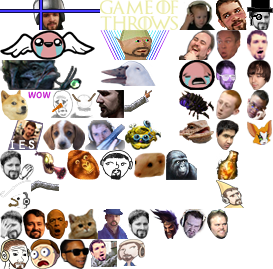
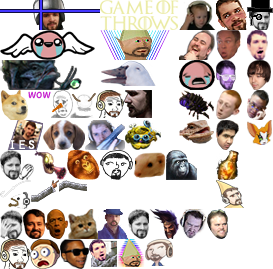
add the other twitch emotes too because clearly people want multiple emotes that are exactly the same

Changed region(s): [[0.4103, 0.8625, 0.6447, 1.0], [0.3516, 0.3271, 0.5568, 0.4461], [0.0879, 0.6543, 0.3223, 0.7732]]

diff --git a/static/chat/css/style.min.css b/static/chat/css/style.min.css
@@ -1,1 +1,1 @@
-.nano{position:relative;width:100%;height:100%;overflow:hidden}.nano>.nano-content{position:absolute;overflow:scroll;overflow-x:hidden;top:0;right:0;bottom:0;left:0}.nano>.nano-content:focus{outline:thin dotted}.nano>.nano-content::-webkit-scrollbar{display:none}.has-scrollbar>.nano-content::-webkit-scrollbar{display:block}.nano>.nano-pane{background:rgba(0,0,0,0.25);position:absolute;width:10px;right:0;top:0;bottom:0;visibility:hidden\9;opacity:.01;-webkit-transition:.2s;-moz-transition:.2s;-o-transition:.2s;transition:.2s;-moz-border-radius:5px;-webkit-border-radius:5px;border-radius:5px}.nano>.nano-pane>.nano-slider{background:#444;background:rgba(0,0,0,0.5);position:relative;margin:0 1px;-moz-border-radius:3px;-webkit-border-radius:3px;border-radius:3px}.nano:hover>.nano-pane,.nano-pane.active,.nano-pane.flashed{visibility:visible\9;opacity:.99}.nano>.nano-pane>.nano-slider{background:#eee}.nano>.nano-pane{background:transparent;width:8px;right:4px}.serif{font-family:"Trebuchet MS",sans-serif}.chat{position:relative;width:100%;height:100%;min-width:300px}.chat-output-frame{margin-bottom:35px;height:auto;width:100%;position:absolute;overflow:hidden;top:0;bottom:0;left:0;right:0}.chat-output{width:100%;height:100%}.chat-output .chat-lines{-webkit-backface-visibility:hidden;-webkit-perspective:1000;outline:0 !important}.chat-lines>div{clear:both;word-wrap:break-word;padding:3px 20px 3px 5px}.chat-lines>div .continue{user-select:none;color:#444}.chat-lines>div i.continue{user-select:none;color:#222}.chat-lines a.user{font-weight:bold;cursor:pointer;font-family:"Trebuchet MS",sans-serif}.chat-lines hr{margin:8px 0}.chat-lines .msg.emote{font-style:italic}.chat-input{width:100%;position:absolute;bottom:0}#chat-top-frame{position:absolute;top:0;left:0;right:0}#chat-bottom-frame{position:absolute;bottom:35px;left:0;right:0}.chat-input>div{margin:5px 0 0 0;background:#2e2e2e}.chat-tools-wrap{position:absolute;right:0;bottom:0;margin:0;user-select:none;-moz-user-select:none;-webkit-user-select:none}.chat-input-wrap{margin:0;margin-right:60px}#user-mute-form,#user-ban-form{margin-top:10px;display:none}#user-mute-form #banTimeLength{width:150px}.chat-input-control{padding:3px 0 0 5px;height:28px;margin:1px;border-radius:3px}.chat-input-control .input{background:none;resize:none;margin:0;padding:0;width:100%;border:0;border-radius:0;box-shadow:none;box-sizing:border-box}.chat-input-control .input:focus{box-shadow:none}.chat-tools-wrap>div{height:30px;overflow:hidden}.chat-tools-wrap .iconbtn{font-size:20px;cursor:pointer;width:30px;height:28px;line-height:28px;float:left;display:block;text-align:center;color:#555;position:relative}.chat-tools-wrap .iconbtn:hover{color:white}.chat-tools-wrap .iconbtn.active{color:white}.chat-tools-wrap .chat-pm-count{font-family:"Lucida Console",Monaco,monospace;text-decoration:none;font-size:10px;color:white;background-color:#b91010;line-height:10px;padding:3px;position:absolute;border-radius:8px;top:-5px;left:0;display:block;text-shadow:1px 1px 0 black;text-align:center;box-shadow:1px 1px 0 rgba(0,0,0,0.1);min-width:15px}@-webkit-keyframes flash{0%,50%,100%{opacity:1}25%,75%{opacity:0}}@keyframes flash{0%,50%,100%{opacity:1}25%,75%{opacity:0}}.chat-pm-count.flash{-webkit-animation-name:flash;-webkit-animation-duration:1.5s;-webkit-animation-direction:alternate;-webkit-animation-timing-function:linear;-webkit-animation-delay:0s;-webkit-animation-iteration-count:infinite;-moz-animation-name:flash;-moz-animation-duration:1.5s;-moz-animation-direction:alternate;-moz-animation-timing-function:linear;-moz-animation-delay:0s;-moz-animation-iteration-count:infinite;animation-name:flash;animation-duration:1.5s;animation-iteration-count:infinite}.chat .chat-lines i[class^="icon-"]{width:16px;line-height:16px;height:16px;margin:0;opacity:1;display:inline-block;vertical-align:middle}.chat-input-control input,.chat-lines{font-family:Helvetica,"Trebuchet MS",Verdana,sans-serif;font-size:13px;line-height:1.5em}.chat-lines time{font-size:11px}.chat-lines a.externallink{color:#02c2ff}.chat-lines a.externallink:visited{color:#a66be5}.chat-lines a.externallink:hover,.chat-lines a.externallink:focus{color:#08c}.chat-lines a.nsfw-link{border-bottom:1px dashed red}.chat-lines a.nsfl-link{border-bottom:1px dashed #fff000}.chat .chat-lines time,.chat .user-msg i{display:none !important}.chat.chat-time .chat-lines time,.chat.chat-icons .user-msg i,.chat-lines i[class*='icon-subscriber']{display:inline-block !important}.chat-theme-dark{background:#080808;border-radius:0}.chat-theme-dark .chat-input-wrap{border:none}.chat-theme-dark .chat-lines time{color:#414141}.chat-theme-dark .chat-lines>div.highlight time,.chat-lines>div.highlight .continue{color:#838383}.chat-theme-dark .chat-lines>.command-msg,.chat-theme-dark .chat-lines>.error-msg,.chat-theme-dark .chat-lines>.status-msg,.chat-theme-dark .chat-lines>.ui-msg,.chat-theme-dark .chat-lines>.own-msg,.chat-theme-dark .chat-lines>.highlight{color:#dedede}.chat-theme-dark .chat-lines>.broadcast-msg .msg{color:#edea12}.chat-theme-dark .chat-lines>.broadcast-msg{background:rgba(255,255,21,0.1)}.chat-theme-dark .chat-lines>.own-msg{background-color:rgba(255,255,255,0.05)}.chat-theme-dark .chat-lines>.highlight{background-color:rgba(0,150,255,0.25)}.chat-theme-dark .chat-lines>.command-msg,.chat-theme-dark .chat-lines>.own-msg,.chat-theme-dark .chat-lines>.highlight .msg,.chat-theme-dark .chat-lines>.broadcast-msg .msg{text-shadow:1px 1px 0 rgba(0,0,0,0.5)}.chat-theme-dark .chat-input-control{background:#090909;border:none}.chat-theme-dark .chat-input-control input{color:#9e9e9e;background:#090909;text-shadow:none;outline:none}.chat-theme-dark .chat-lines>.private-message{background-color:#212121;margin:5px 15px 5px 10px;padding:10px;position:relative;border-radius:3px}.chat-theme-dark .chat-lines>.private-message .speech-arrow{top:15px;left:-5px;position:absolute;width:0;height:0;border-style:solid;border-width:5px 5px 5px 0;border-color:transparent #212121 transparent transparent}.chat-theme-dark .chat-lines>.private-message .message-actions{font-size:90%}.chat-theme-dark input:input-placeholder{color:#222}.chat-theme-dark input::-webkit-input-placeholder{color:#222}.chat-theme-dark input:-moz-placeholder{color:#222}.chat-theme-dark input::-moz-placeholder{color:#222}.chat-theme-dark input:-ms-input-placeholder{color:#222}.chat-theme-dark .nano>.pane{background:rgba(0,0,0,0.3);width:8px;right:5px;top:5px;bottom:0}.chat-theme-dark .nano>.pane>.slider{background:#999}.chat-theme-dark .nano>.pane>.slider:hover,.chat-theme-dark .nano>.pane.active>.slider{background:#eee}.chat.focus-user .chat-lines>.user-msg{opacity:.3}.chat.focus-user .chat-lines>.user-msg.focused,.chat.focus-user .chat-lines>.user-msg.highlight{opacity:1}.chat .alert{margin-bottom:0;padding-top:4px;padding-bottom:4px;font-size:12px}.hint-popup,.user-tools{width:100%;top:-5px;left:0}.hint-popup>div,.user-tools>div,#chat-broadcasts>div{border-radius:4px;margin:5px 20px 5px 5px}.user-tools .user-tools-user{font-family:"Trebuchet MS",sans-serif}#chat-broadcasts .chat-emote{display:none}.hint-popup>div{box-shadow:0 2px 6px rgba(0,0,0,0.9);padding:0}.hint-popup a:hover{cursor:pointer;color:#6aa7f9}.hint-popup .hidehint,.hint-popup .nexthint{top:0;position:relative;float:right;right:-23px;line-height:20px;-webkit-touch-callout:none;-webkit-user-select:none;-khtml-user-select:none;-moz-user-select:none;-ms-user-select:none;user-select:none;color:#ccc}.hint-popup .hidehint{right:-27px}.hint-popup .hidehint:hover,.hint-popup .nexthint:hover{color:#111}.hint-popup .alert{padding-right:35px}.user-tools-wrap{margin-left:-5px}.user-tools-wrap>a{margin:0 5px}.chat-menu,.user-tools,.hint-popup{display:none;opacity:0}.chat-menu.active,.user-tools.active,.hint-popup.active{display:block;opacity:1}.chat-menu,.user-tools,.hint-popup{font-size:12px}.chat-menu{position:absolute;right:20px;bottom:-5px;width:240px}.chat-menu.active{bottom:0}.chat-menu h5,.user-tools h5{text-shadow:-1px -1px 0 rgba(0,0,0,0.25);user-select:none;-moz-user-select:none;-webkit-user-select:none;background:#4f4f4f;background:linear-gradient(to bottom, #4f4f4f 0, #2e2e2e 100%);border-bottom:1px solid #121212;margin:0;line-height:20px;display:block;padding:5px 15px 5px 10px;border-radius:4px 4px 0 0}.chat-menu .toolbar{width:100%;position:absolute;top:-31px;left:0}.chat-menu li,.chat-menu label{font-size:12px}.chat-menu label{font-weight:normal;margin:0 0 5px 0}.chat-menu label:hover{color:white}.chat-menu .list-wrap,.chat-menu .list-wrap .scrollable{max-height:330px;font-size:.9em}.chat-menu .list-wrap,.user-tools>div{box-shadow:0 2px 6px rgba(0,0,0,0.9);border-radius:0 0 4px 4px;background:rgba(25,25,25,0.9);padding:0}.chat-menu .list-wrap{margin-top:auto}.chat-menu ul,.user-tools .tools{padding:0 10px;margin:10px 0}.chat-menu ul>li:first-child h5{margin-top:0}.chat-menu ul li{text-overflow:ellipsis;overflow:hidden}#chat-user-list ul li{line-height:18px}#chat-user-list h6:first-child{margin-top:10px}#chat-user-list h6{font-weight:bold;margin:0 0 5px 5px}#chat-user-list hr{margin:5px 0}#chat-user-list ul{margin:0}#chat-user-list .user{cursor:pointer;font-family:"Trebuchet MS",sans-serif}.user-tools a#unignoreuser,.user-tools.user-ignored a#ignoreuser{display:none}.user-tools.user-ignored a#unignoreuser{display:inline-block}.chat-menu .nano>.pane{width:8px;right:3px;top:3px;bottom:3px}#chat-private-messages{width:270px}#chat-private-messages #chat-pm-message{padding:15px}#chat-private-messages #chat-pm-message p{font-size:14px;text-align:center}.chat-login-msg{display:inline-block;width:100%;padding:0 0 0 5px;line-height:30px;color:rgba(255,255,255,0.5);text-shadow:-1px -1px 0 rgba(0,0,0,0.25)}.chat-lines .emotecount{color:white;text-shadow:1px 1px 0 rgba(0,0,0,0.9);font-size:10px;line-height:10px;border-radius:10px;padding:3px 6px;margin:0 0 0 5px;background:#191919}.chat-lines .emotecount{text-shadow:none;animation:emotecount 600ms 1;-moz-animation:emotecount 600ms 1;-webkit-animation:emotecount 600ms 1}@keyframes emotecount{from{color:black;background-color:white}to{color:white;background-color:#333}}@-webkit-keyframes emotecount{from{color:black;background-color:white}to{color:white;background-color:#333}}.chat-lines .emotecount.x5>span{font-size:12px}.chat-lines .emotecount.x10>span{font-size:16px}.chat-lines .emotecount.x20>span{font-size:25px;vertical-align:middle}.chat-lines .emotecount.x30>span{font-size:35px;vertical-align:middle}.chat-lines .emotecount.x50>span{font-size:40px;vertical-align:middle}.chat a.user{color:#cacaca}.chat a.user:hover{color:#fafafa}.chat a.subscriber{color:#488ce7}.chat a.subscriber:hover{color:#6aa7f9}.chat a.flair3{color:#0060ff;text-shadow:1px 1px 0 black}.chat a.flair3:hover{color:#6aa7f9}.chat a.flair8{color:#a427d6;text-shadow:1px 1px 0 black}.chat a.flair8:hover{color:#e564f4}.chat a.vip{color:#4db524}.chat a.vip:hover{color:#4db524}.chat a.bot{color:#e79015}.chat a.bot:hover{color:#e79015}.chat a.admin{color:#b91010}.chat a.admin:hover{color:#f00}.chat .greentext{color:#6ca528}@keyframes hop{0%{transform:translateY(0)}5%{transform:translateY(2px)}10%{transform:translateY(-13px)}50%{transform:translateY(-15px)}70%{transform:translateY(-13px)}80%{transform:translateY(-5px)}95%{transform:translateY(0)}100%{transform:translateY(0)}}.hop{animation:hop 700ms linear 5}.chat-emote{display:inline-block;position:relative;top:10px;margin:0 2px;overflow:hidden;text-indent:-90000px;vertical-align:middle}.chat-emote.chat-emote-OverRustle{animation:rustle 100ms 7;-webkit-animation:rustle 100ms 7}.chat-emote.chat-emote-OverRustle:hover{animation:rustle1 100ms infinite;-webkit-animation:rustle1 100ms infinite}@keyframes rustle{from{left:0}to{left:2px}}@-webkit-keyframes rustle{from{left:0}to{left:2px}}@keyframes rustle1{from{left:0}to{left:2px}}@-webkit-keyframes rustle1{from{left:0}to{left:2px}}.chat-emote.chat-emote-AYYYLMAO,.chat-emote.chat-emote-AngelThump,.chat-emote.chat-emote-Abathur,.chat-emote.chat-emote-GameOfThrows,.chat-emote.chat-emote-DANKMEMES,.chat-emote.chat-emote-DuckerZ,.chat-emote.chat-emote-SoDoge,.chat-emote.chat-emote-SoSad,.chat-emote.chat-emote-LIES,.chat-emote.chat-emote-FrankerZ,.chat-emote.chat-emote-SOTRIGGERED,.chat-emote.chat-emote-Heimerdonger,.chat-emote.chat-emote-FeedNathan,.chat-emote.chat-emote-LUL,.chat-emote.chat-emote-BibleThump,.chat-emote.chat-emote-INFESTINY,.chat-emote.chat-emote-Hhhehhehe,.chat-emote.chat-emote-Klappa,.chat-emote.chat-emote-SURPRISE,.chat-emote.chat-emote-OverRustle,.chat-emote.chat-emote-LeRuse,.chat-emote.chat-emote-FerretLOL,.chat-emote.chat-emote-NoTears,.chat-emote.chat-emote-MASTERB8,.chat-emote.chat-emote-DestiSenpaii,.chat-emote.chat-emote-WhoahDude,.chat-emote.chat-emote-WORTH,.chat-emote.chat-emote-UWOTM8,.chat-emote.chat-emote-TooSpicy,.chat-emote.chat-emote-Sippy,.chat-emote.chat-emote-OhKrappa,.chat-emote.chat-emote-Nappa,.chat-emote.chat-emote-NOTMYTEMPO,.chat-emote.chat-emote-MotherFuckinGame,.chat-emote.chat-emote-MLADY,.chat-emote.chat-emote-Kappa,.chat-emote.chat-emote-Dravewin,.chat-emote.chat-emote-Disgustiny,.chat-emote.chat-emote-DatGeoff,.chat-emote.chat-emote-DappaKappa,.chat-emote.chat-emote-DaFeels,.chat-emote.chat-emote-DURRSTINY,.chat-emote.chat-emote-DAFUK,.chat-emote.chat-emote-CallChad,.chat-emote.chat-emote-CallCatz,.chat-emote.chat-emote-BasedGod,.chat-emote.chat-emote-nathanParty,.chat-emote.chat-emote-nathanFather,.chat-emote.chat-emote-nathanDubs3,.chat-emote.chat-emote-nathanDubs2,.chat-emote.chat-emote-nathanDubs1,.chat-emote.chat-emote-nathanDad,.chat-emote.chat-emote-FIDGETLOL{background-image:url('../img/emoticons.png');background-repeat:no-repeat}.chat-emote.chat-emote-AYYYLMAO{background-position:0 0;width:100px;height:30px;margin-top:-30px}.chat-emote.chat-emote-AngelThump{background-position:0 -30px;width:95px;height:30px;margin-top:-30px}.chat-emote.chat-emote-Abathur{background-position:0 -60px;width:82px;height:30px;margin-top:-30px}.chat-emote.chat-emote-GameOfThrows{background-position:-100px 0;width:79px;height:30px;margin-top:-30px}.chat-emote.chat-emote-DANKMEMES{background-position:-100px -30px;width:70px;height:30px;margin-top:-30px}.chat-emote.chat-emote-DuckerZ{background-position:-100px -60px;width:56px;height:26px;margin-top:-26px}.chat-emote.chat-emote-SoDoge{background-position:0 -90px;width:51px;height:30px;margin-top:-30px}.chat-emote.chat-emote-SoSad{background-position:-51px -90px;width:45px;height:28px;margin-top:-28px}.chat-emote.chat-emote-LIES{background-position:0 -120px;width:43px;height:30px;margin-top:-30px}.chat-emote.chat-emote-FrankerZ{background-position:-43px -120px;width:42px;height:30px;margin-top:-30px}.chat-emote.chat-emote-SOTRIGGERED{background-position:-85px -120px;width:40px;height:30px;margin-top:-30px}.chat-emote.chat-emote-Heimerdonger{background-position:-125px -120px;width:37px;height:30px;margin-top:-30px}.chat-emote.chat-emote-FeedNathan{background-position:-179px 0;width:37px;height:30px;margin-top:-30px}.chat-emote.chat-emote-LUL{background-position:-179px -30px;width:36px;height:30px;margin-top:-30px}.chat-emote.chat-emote-BibleThump{background-position:-179px -60px;width:36px;height:30px;margin-top:-30px}.chat-emote.chat-emote-INFESTINY{background-position:-179px -90px;width:35px;height:30px;margin-top:-30px}.chat-emote.chat-emote-Hhhehhehe{background-position:-179px -120px;width:35px;height:24px;margin-top:-24px}.chat-emote.chat-emote-Klappa{background-position:0 -150px;width:34px;height:30px;margin-top:-30px}.chat-emote.chat-emote-SURPRISE{background-position:-34px -150px;width:33px;height:30px;margin-top:-30px}.chat-emote.chat-emote-OverRustle{background-position:-67px -150px;width:33px;height:30px;margin-top:-30px}.chat-emote.chat-emote-LeRuse{background-position:-100px -150px;width:33px;height:30px;margin-top:-30px}.chat-emote.chat-emote-FerretLOL{background-position:-133px -150px;width:33px;height:30px;margin-top:-30px}.chat-emote.chat-emote-NoTears{background-position:-166px -150px;width:31px;height:30px;margin-top:-30px}.chat-emote.chat-emote-MASTERB8{background-position:0 -180px;width:31px;height:29px;margin-top:-29px}.chat-emote.chat-emote-DestiSenpaii{background-position:-216px 0;width:31px;height:30px;margin-top:-30px}.chat-emote.chat-emote-WhoahDude{background-position:-216px -30px;width:25px;height:30px;margin-top:-30px}.chat-emote.chat-emote-WORTH{background-position:-216px -60px;width:20px;height:30px;margin-top:-30px}.chat-emote.chat-emote-UWOTM8{background-position:-216px -90px;width:26px;height:30px;margin-top:-30px}.chat-emote.chat-emote-TooSpicy{background-position:-216px -120px;width:23px;height:30px;margin-top:-30px}.chat-emote.chat-emote-Sippy{background-position:-216px -150px;width:24px;height:30px;margin-top:-30px}.chat-emote.chat-emote-OhKrappa{background-position:0 -209px;width:23px;height:30px;margin-top:-30px}.chat-emote.chat-emote-Nappa{background-position:-23px -209px;width:22px;height:30px;margin-top:-30px}.chat-emote.chat-emote-NOTMYTEMPO{background-position:-45px -209px;width:23px;height:30px;margin-top:-30px}.chat-emote.chat-emote-MotherFuckinGame{background-position:-68px -209px;width:30px;height:30px;margin-top:-30px}.chat-emote.chat-emote-MLADY{background-position:-98px -209px;width:30px;height:30px;margin-top:-30px}.chat-emote.chat-emote-Kappa{background-position:-128px -209px;width:21px;height:30px;margin-top:-30px}.chat-emote.chat-emote-Dravewin{background-position:-149px -209px;width:30px;height:30px;margin-top:-30px}.chat-emote.chat-emote-Disgustiny{background-position:-179px -209px;width:28px;height:30px;margin-top:-30px}.chat-emote.chat-emote-DatGeoff{background-position:-207px -209px;width:21px;height:30px;margin-top:-30px}.chat-emote.chat-emote-DappaKappa{background-position:-247px 0;width:26px;height:30px;margin-top:-30px}.chat-emote.chat-emote-DaFeels{background-position:0 -239px;width:30px;height:30px;margin-top:-30px}.chat-emote.chat-emote-DURRSTINY{background-position:-247px -30px;width:21px;height:30px;margin-top:-30px}.chat-emote.chat-emote-DAFUK{background-position:-30px -239px;width:30px;height:30px;margin-top:-30px}.chat-emote.chat-emote-CallChad{background-position:-247px -60px;width:24px;height:30px;margin-top:-30px}.chat-emote.chat-emote-CallCatz{background-position:-247px -90px;width:22px;height:30px;margin-top:-30px}.chat-emote.chat-emote-BasedGod{background-position:-60px -239px;width:29px;height:30px;margin-top:-30px}.chat-emote.chat-emote-nathanParty{background-position:-216px -180px;width:28px;height:28px;margin-top:-28px}.chat-emote.chat-emote-nathanFather{background-position:-96px -90px;width:28px;height:28px;margin-top:-28px}.chat-emote.chat-emote-nathanDubs3{background-position:-124px -90px;width:28px;height:22px;margin-top:-22px}.chat-emote.chat-emote-nathanDubs2{background-position:-31px -180px;width:28px;height:12px;margin-top:-12px}.chat-emote.chat-emote-nathanDubs1{background-position:-89px -239px;width:28px;height:28px;margin-top:-28px}.chat-emote.chat-emote-nathanDad{background-position:-117px -239px;width:28px;height:27px;margin-top:-27px}.chat-emote.chat-emote-FIDGETLOL{background-position:-247px -120px;width:25px;height:25px;margin-top:-25px}.icon-subscriber,.icon-subscribert2,.icon-subscribert3,.icon-subscribert4{-webkit-transform:rotate(0deg);-webkit-transition:rotate .2s ease-in-out;-moz-transition:rotate .2s ease-in-out;-o-transition:rotate .2s ease-in-out;transition:rotate .2s ease-in-out}.icon-subscriber:hover,.icon-subscribert2:hover,.icon-subscribert3:hover,.icon-subscribert4:hover{-moz-animation:spin 3s infinite linear;-webkit-animation:spin 3s infinite linear}.icon-vip:hover,.icon-vip,.icon-trusted,.icon-subscribert4,.icon-subscribert3,.icon-subscribert2,.icon-subscriber,.icon-status,.icon-notable,.icon-moderator,.icon-mail,.icon-mail-send,.icon-mail-receive,.icon-mail-open-document,.icon-info,.icon-evenotable,.icon-error,.icon-contributor,.icon-compchallenge:hover,.icon-compchallenge,.icon-command,.icon-bot:hover,.icon-bot,.icon-admin:hover,.icon-admin{background-image:url('../img/icons.png');background-repeat:no-repeat}.icon-vip:hover{background-position:0 0;width:16px;height:16px}.icon-vip{background-position:-16px 0;width:16px;height:16px}.icon-trusted{background-position:0 -16px;width:16px;height:16px}.icon-subscribert4{background-position:-16px -16px;width:16px;height:16px}.icon-subscribert3{background-position:-32px 0;width:16px;height:16px}.icon-subscribert2{background-position:-32px -16px;width:16px;height:16px}.icon-subscriber{background-position:0 -32px;width:16px;height:16px}.icon-status{background-position:-16px -32px;width:16px;height:16px}.icon-notable{background-position:-32px -32px;width:16px;height:16px}.icon-moderator{background-position:-48px 0;width:16px;height:16px}.icon-mail{background-position:-48px -16px;width:16px;height:16px}.icon-mail-send{background-position:-48px -32px;width:16px;height:16px}.icon-mail-receive{background-position:0 -48px;width:16px;height:16px}.icon-mail-open-document{background-position:-16px -48px;width:16px;height:16px}.icon-info{background-position:-32px -48px;width:16px;height:16px}.icon-evenotable{background-position:-48px -48px;width:16px;height:16px}.icon-error{background-position:-64px 0;width:16px;height:16px}.icon-contributor{background-position:-64px -16px;width:16px;height:16px}.icon-compchallenge:hover{background-position:-64px -32px;width:16px;height:16px}.icon-compchallenge{background-position:-64px -48px;width:16px;height:16px}.icon-command{background-position:0 -64px;width:16px;height:16px}.icon-bot:hover{background-position:-16px -64px;width:16px;height:16px}.icon-bot{background-position:-32px -64px;width:16px;height:16px}.icon-admin:hover{background-position:-48px -64px;width:16px;height:16px}.icon-admin{background-position:-64px -64px;width:16px;height:16px}
+.nano{position:relative;width:100%;height:100%;overflow:hidden}.nano>.nano-content{position:absolute;overflow:scroll;overflow-x:hidden;top:0;right:0;bottom:0;left:0}.nano>.nano-content:focus{outline:thin dotted}.nano>.nano-content::-webkit-scrollbar{display:none}.has-scrollbar>.nano-content::-webkit-scrollbar{display:block}.nano>.nano-pane{background:rgba(0,0,0,0.25);position:absolute;width:10px;right:0;top:0;bottom:0;visibility:hidden\9;opacity:.01;-webkit-transition:.2s;-moz-transition:.2s;-o-transition:.2s;transition:.2s;-moz-border-radius:5px;-webkit-border-radius:5px;border-radius:5px}.nano>.nano-pane>.nano-slider{background:#444;background:rgba(0,0,0,0.5);position:relative;margin:0 1px;-moz-border-radius:3px;-webkit-border-radius:3px;border-radius:3px}.nano:hover>.nano-pane,.nano-pane.active,.nano-pane.flashed{visibility:visible\9;opacity:.99}.nano>.nano-pane>.nano-slider{background:#eee}.nano>.nano-pane{background:transparent;width:8px;right:4px}.serif{font-family:"Trebuchet MS",sans-serif}.chat{position:relative;width:100%;height:100%;min-width:300px}.chat-output-frame{margin-bottom:35px;height:auto;width:100%;position:absolute;overflow:hidden;top:0;bottom:0;left:0;right:0}.chat-output{width:100%;height:100%}.chat-output .chat-lines{-webkit-backface-visibility:hidden;-webkit-perspective:1000;outline:0 !important}.chat-lines>div{clear:both;word-wrap:break-word;padding:3px 20px 3px 5px}.chat-lines>div .continue{user-select:none;color:#444}.chat-lines>div i.continue{user-select:none;color:#222}.chat-lines a.user{font-weight:bold;cursor:pointer;font-family:"Trebuchet MS",sans-serif}.chat-lines hr{margin:8px 0}.chat-lines .msg.emote{font-style:italic}.chat-input{width:100%;position:absolute;bottom:0}#chat-top-frame{position:absolute;top:0;left:0;right:0}#chat-bottom-frame{position:absolute;bottom:35px;left:0;right:0}.chat-input>div{margin:5px 0 0 0;background:#2e2e2e}.chat-tools-wrap{position:absolute;right:0;bottom:0;margin:0;user-select:none;-moz-user-select:none;-webkit-user-select:none}.chat-input-wrap{margin:0;margin-right:60px}#user-mute-form,#user-ban-form{margin-top:10px;display:none}#user-mute-form #banTimeLength{width:150px}.chat-input-control{padding:3px 0 0 5px;height:28px;margin:1px;border-radius:3px}.chat-input-control .input{background:none;resize:none;margin:0;padding:0;width:100%;border:0;border-radius:0;box-shadow:none;box-sizing:border-box}.chat-input-control .input:focus{box-shadow:none}.chat-tools-wrap>div{height:30px;overflow:hidden}.chat-tools-wrap .iconbtn{font-size:20px;cursor:pointer;width:30px;height:28px;line-height:28px;float:left;display:block;text-align:center;color:#555;position:relative}.chat-tools-wrap .iconbtn:hover{color:white}.chat-tools-wrap .iconbtn.active{color:white}.chat-tools-wrap .chat-pm-count{font-family:"Lucida Console",Monaco,monospace;text-decoration:none;font-size:10px;color:white;background-color:#b91010;line-height:10px;padding:3px;position:absolute;border-radius:8px;top:-5px;left:0;display:block;text-shadow:1px 1px 0 black;text-align:center;box-shadow:1px 1px 0 rgba(0,0,0,0.1);min-width:15px}@-webkit-keyframes flash{0%,50%,100%{opacity:1}25%,75%{opacity:0}}@keyframes flash{0%,50%,100%{opacity:1}25%,75%{opacity:0}}.chat-pm-count.flash{-webkit-animation-name:flash;-webkit-animation-duration:1.5s;-webkit-animation-direction:alternate;-webkit-animation-timing-function:linear;-webkit-animation-delay:0s;-webkit-animation-iteration-count:infinite;-moz-animation-name:flash;-moz-animation-duration:1.5s;-moz-animation-direction:alternate;-moz-animation-timing-function:linear;-moz-animation-delay:0s;-moz-animation-iteration-count:infinite;animation-name:flash;animation-duration:1.5s;animation-iteration-count:infinite}.chat .chat-lines i[class^="icon-"]{width:16px;line-height:16px;height:16px;margin:0;opacity:1;display:inline-block;vertical-align:middle}.chat-input-control input,.chat-lines{font-family:Helvetica,"Trebuchet MS",Verdana,sans-serif;font-size:13px;line-height:1.5em}.chat-lines time{font-size:11px}.chat-lines a.externallink{color:#02c2ff}.chat-lines a.externallink:visited{color:#a66be5}.chat-lines a.externallink:hover,.chat-lines a.externallink:focus{color:#08c}.chat-lines a.nsfw-link{border-bottom:1px dashed red}.chat-lines a.nsfl-link{border-bottom:1px dashed #fff000}.chat .chat-lines time,.chat .user-msg i{display:none !important}.chat.chat-time .chat-lines time,.chat.chat-icons .user-msg i,.chat-lines i[class*='icon-subscriber']{display:inline-block !important}.chat-theme-dark{background:#080808;border-radius:0}.chat-theme-dark .chat-input-wrap{border:none}.chat-theme-dark .chat-lines time{color:#414141}.chat-theme-dark .chat-lines>div.highlight time,.chat-lines>div.highlight .continue{color:#838383}.chat-theme-dark .chat-lines>.command-msg,.chat-theme-dark .chat-lines>.error-msg,.chat-theme-dark .chat-lines>.status-msg,.chat-theme-dark .chat-lines>.ui-msg,.chat-theme-dark .chat-lines>.own-msg,.chat-theme-dark .chat-lines>.highlight{color:#dedede}.chat-theme-dark .chat-lines>.broadcast-msg .msg{color:#edea12}.chat-theme-dark .chat-lines>.broadcast-msg{background:rgba(255,255,21,0.1)}.chat-theme-dark .chat-lines>.own-msg{background-color:rgba(255,255,255,0.05)}.chat-theme-dark .chat-lines>.highlight{background-color:rgba(0,150,255,0.25)}.chat-theme-dark .chat-lines>.command-msg,.chat-theme-dark .chat-lines>.own-msg,.chat-theme-dark .chat-lines>.highlight .msg,.chat-theme-dark .chat-lines>.broadcast-msg .msg{text-shadow:1px 1px 0 rgba(0,0,0,0.5)}.chat-theme-dark .chat-input-control{background:#090909;border:none}.chat-theme-dark .chat-input-control input{color:#9e9e9e;background:#090909;text-shadow:none;outline:none}.chat-theme-dark .chat-lines>.private-message{background-color:#212121;margin:5px 15px 5px 10px;padding:10px;position:relative;border-radius:3px}.chat-theme-dark .chat-lines>.private-message .speech-arrow{top:15px;left:-5px;position:absolute;width:0;height:0;border-style:solid;border-width:5px 5px 5px 0;border-color:transparent #212121 transparent transparent}.chat-theme-dark .chat-lines>.private-message .message-actions{font-size:90%}.chat-theme-dark input:input-placeholder{color:#222}.chat-theme-dark input::-webkit-input-placeholder{color:#222}.chat-theme-dark input:-moz-placeholder{color:#222}.chat-theme-dark input::-moz-placeholder{color:#222}.chat-theme-dark input:-ms-input-placeholder{color:#222}.chat-theme-dark .nano>.pane{background:rgba(0,0,0,0.3);width:8px;right:5px;top:5px;bottom:0}.chat-theme-dark .nano>.pane>.slider{background:#999}.chat-theme-dark .nano>.pane>.slider:hover,.chat-theme-dark .nano>.pane.active>.slider{background:#eee}.chat.focus-user .chat-lines>.user-msg{opacity:.3}.chat.focus-user .chat-lines>.user-msg.focused,.chat.focus-user .chat-lines>.user-msg.highlight{opacity:1}.chat .alert{margin-bottom:0;padding-top:4px;padding-bottom:4px;font-size:12px}.hint-popup,.user-tools{width:100%;top:-5px;left:0}.hint-popup>div,.user-tools>div,#chat-broadcasts>div{border-radius:4px;margin:5px 20px 5px 5px}.user-tools .user-tools-user{font-family:"Trebuchet MS",sans-serif}#chat-broadcasts .chat-emote{display:none}.hint-popup>div{box-shadow:0 2px 6px rgba(0,0,0,0.9);padding:0}.hint-popup a:hover{cursor:pointer;color:#6aa7f9}.hint-popup .hidehint,.hint-popup .nexthint{top:0;position:relative;float:right;right:-23px;line-height:20px;-webkit-touch-callout:none;-webkit-user-select:none;-khtml-user-select:none;-moz-user-select:none;-ms-user-select:none;user-select:none;color:#ccc}.hint-popup .hidehint{right:-27px}.hint-popup .hidehint:hover,.hint-popup .nexthint:hover{color:#111}.hint-popup .alert{padding-right:35px}.user-tools-wrap{margin-left:-5px}.user-tools-wrap>a{margin:0 5px}.chat-menu,.user-tools,.hint-popup{display:none;opacity:0}.chat-menu.active,.user-tools.active,.hint-popup.active{display:block;opacity:1}.chat-menu,.user-tools,.hint-popup{font-size:12px}.chat-menu{position:absolute;right:20px;bottom:-5px;width:240px}.chat-menu.active{bottom:0}.chat-menu h5,.user-tools h5{text-shadow:-1px -1px 0 rgba(0,0,0,0.25);user-select:none;-moz-user-select:none;-webkit-user-select:none;background:#4f4f4f;background:linear-gradient(to bottom, #4f4f4f 0, #2e2e2e 100%);border-bottom:1px solid #121212;margin:0;line-height:20px;display:block;padding:5px 15px 5px 10px;border-radius:4px 4px 0 0}.chat-menu .toolbar{width:100%;position:absolute;top:-31px;left:0}.chat-menu li,.chat-menu label{font-size:12px}.chat-menu label{font-weight:normal;margin:0 0 5px 0}.chat-menu label:hover{color:white}.chat-menu .list-wrap,.chat-menu .list-wrap .scrollable{max-height:330px;font-size:.9em}.chat-menu .list-wrap,.user-tools>div{box-shadow:0 2px 6px rgba(0,0,0,0.9);border-radius:0 0 4px 4px;background:rgba(25,25,25,0.9);padding:0}.chat-menu .list-wrap{margin-top:auto}.chat-menu ul,.user-tools .tools{padding:0 10px;margin:10px 0}.chat-menu ul>li:first-child h5{margin-top:0}.chat-menu ul li{text-overflow:ellipsis;overflow:hidden}#chat-user-list ul li{line-height:18px}#chat-user-list h6:first-child{margin-top:10px}#chat-user-list h6{font-weight:bold;margin:0 0 5px 5px}#chat-user-list hr{margin:5px 0}#chat-user-list ul{margin:0}#chat-user-list .user{cursor:pointer;font-family:"Trebuchet MS",sans-serif}.user-tools a#unignoreuser,.user-tools.user-ignored a#ignoreuser{display:none}.user-tools.user-ignored a#unignoreuser{display:inline-block}.chat-menu .nano>.pane{width:8px;right:3px;top:3px;bottom:3px}#chat-private-messages{width:270px}#chat-private-messages #chat-pm-message{padding:15px}#chat-private-messages #chat-pm-message p{font-size:14px;text-align:center}.chat-login-msg{display:inline-block;width:100%;padding:0 0 0 5px;line-height:30px;color:rgba(255,255,255,0.5);text-shadow:-1px -1px 0 rgba(0,0,0,0.25)}.chat-lines .emotecount{color:white;text-shadow:1px 1px 0 rgba(0,0,0,0.9);font-size:10px;line-height:10px;border-radius:10px;padding:3px 6px;margin:0 0 0 5px;background:#191919}.chat-lines .emotecount{text-shadow:none;animation:emotecount 600ms 1;-moz-animation:emotecount 600ms 1;-webkit-animation:emotecount 600ms 1}@keyframes emotecount{from{color:black;background-color:white}to{color:white;background-color:#333}}@-webkit-keyframes emotecount{from{color:black;background-color:white}to{color:white;background-color:#333}}.chat-lines .emotecount.x5>span{font-size:12px}.chat-lines .emotecount.x10>span{font-size:16px}.chat-lines .emotecount.x20>span{font-size:25px;vertical-align:middle}.chat-lines .emotecount.x30>span{font-size:35px;vertical-align:middle}.chat-lines .emotecount.x50>span{font-size:40px;vertical-align:middle}.chat a.user{color:#cacaca}.chat a.user:hover{color:#fafafa}.chat a.subscriber{color:#488ce7}.chat a.subscriber:hover{color:#6aa7f9}.chat a.flair3{color:#0060ff;text-shadow:1px 1px 0 black}.chat a.flair3:hover{color:#6aa7f9}.chat a.flair8{color:#a427d6;text-shadow:1px 1px 0 black}.chat a.flair8:hover{color:#e564f4}.chat a.vip{color:#4db524}.chat a.vip:hover{color:#4db524}.chat a.bot{color:#e79015}.chat a.bot:hover{color:#e79015}.chat a.admin{color:#b91010}.chat a.admin:hover{color:#f00}.chat .greentext{color:#6ca528}@keyframes hop{0%{transform:translateY(0)}5%{transform:translateY(2px)}10%{transform:translateY(-13px)}50%{transform:translateY(-15px)}70%{transform:translateY(-13px)}80%{transform:translateY(-5px)}95%{transform:translateY(0)}100%{transform:translateY(0)}}.hop{animation:hop 700ms linear 5}.chat-emote{display:inline-block;position:relative;top:10px;margin:0 2px;overflow:hidden;text-indent:-90000px;vertical-align:middle}.chat-emote.chat-emote-OverRustle{animation:rustle 100ms 7;-webkit-animation:rustle 100ms 7}.chat-emote.chat-emote-OverRustle:hover{animation:rustle1 100ms infinite;-webkit-animation:rustle1 100ms infinite}@keyframes rustle{from{left:0}to{left:2px}}@-webkit-keyframes rustle{from{left:0}to{left:2px}}@keyframes rustle1{from{left:0}to{left:2px}}@-webkit-keyframes rustle1{from{left:0}to{left:2px}}.chat-emote.chat-emote-AYYYLMAO,.chat-emote.chat-emote-AngelThump,.chat-emote.chat-emote-Abathur,.chat-emote.chat-emote-GameOfThrows,.chat-emote.chat-emote-DANKMEMES,.chat-emote.chat-emote-DuckerZ,.chat-emote.chat-emote-SoDoge,.chat-emote.chat-emote-SoSad,.chat-emote.chat-emote-LIES,.chat-emote.chat-emote-FrankerZ,.chat-emote.chat-emote-SOTRIGGERED,.chat-emote.chat-emote-Heimerdonger,.chat-emote.chat-emote-FeedNathan,.chat-emote.chat-emote-LUL,.chat-emote.chat-emote-BibleThump,.chat-emote.chat-emote-INFESTINY,.chat-emote.chat-emote-Hhhehhehe,.chat-emote.chat-emote-Klappa,.chat-emote.chat-emote-SURPRISE,.chat-emote.chat-emote-OverRustle,.chat-emote.chat-emote-LeRuse,.chat-emote.chat-emote-FerretLOL,.chat-emote.chat-emote-NoTears,.chat-emote.chat-emote-MASTERB8,.chat-emote.chat-emote-DestiSenpaii,.chat-emote.chat-emote-WhoahDude,.chat-emote.chat-emote-WORTH,.chat-emote.chat-emote-UWOTM8,.chat-emote.chat-emote-TooSpicy,.chat-emote.chat-emote-Sippy,.chat-emote.chat-emote-OhKrappa,.chat-emote.chat-emote-Nappa,.chat-emote.chat-emote-NOTMYTEMPO,.chat-emote.chat-emote-MotherFuckinGame,.chat-emote.chat-emote-MLADY,.chat-emote.chat-emote-Kappa,.chat-emote.chat-emote-Dravewin,.chat-emote.chat-emote-Disgustiny,.chat-emote.chat-emote-DatGeoff,.chat-emote.chat-emote-DappaKappa,.chat-emote.chat-emote-DaFeels,.chat-emote.chat-emote-DURRSTINY,.chat-emote.chat-emote-DAFUK,.chat-emote.chat-emote-CallChad,.chat-emote.chat-emote-CallCatz,.chat-emote.chat-emote-BasedGod,.chat-emote.chat-emote-nathanParty,.chat-emote.chat-emote-nathanFeels,.chat-emote.chat-emote-nathanFather,.chat-emote.chat-emote-nathanDubs3,.chat-emote.chat-emote-nathanDubs2,.chat-emote.chat-emote-nathanDubs1,.chat-emote.chat-emote-nathanDank,.chat-emote.chat-emote-nathanDad,.chat-emote.chat-emote-FIDGETLOL{background-image:url('../img/emoticons.png');background-repeat:no-repeat}.chat-emote.chat-emote-AYYYLMAO{background-position:0 0;width:100px;height:30px;margin-top:-30px}.chat-emote.chat-emote-AngelThump{background-position:0 -30px;width:95px;height:30px;margin-top:-30px}.chat-emote.chat-emote-Abathur{background-position:0 -60px;width:82px;height:30px;margin-top:-30px}.chat-emote.chat-emote-GameOfThrows{background-position:-100px 0;width:79px;height:30px;margin-top:-30px}.chat-emote.chat-emote-DANKMEMES{background-position:-100px -30px;width:70px;height:30px;margin-top:-30px}.chat-emote.chat-emote-DuckerZ{background-position:-100px -60px;width:56px;height:26px;margin-top:-26px}.chat-emote.chat-emote-SoDoge{background-position:0 -90px;width:51px;height:30px;margin-top:-30px}.chat-emote.chat-emote-SoSad{background-position:-51px -90px;width:45px;height:28px;margin-top:-28px}.chat-emote.chat-emote-LIES{background-position:0 -120px;width:43px;height:30px;margin-top:-30px}.chat-emote.chat-emote-FrankerZ{background-position:-43px -120px;width:42px;height:30px;margin-top:-30px}.chat-emote.chat-emote-SOTRIGGERED{background-position:-85px -120px;width:40px;height:30px;margin-top:-30px}.chat-emote.chat-emote-Heimerdonger{background-position:-125px -120px;width:37px;height:30px;margin-top:-30px}.chat-emote.chat-emote-FeedNathan{background-position:-179px 0;width:37px;height:30px;margin-top:-30px}.chat-emote.chat-emote-LUL{background-position:-179px -30px;width:36px;height:30px;margin-top:-30px}.chat-emote.chat-emote-BibleThump{background-position:-179px -60px;width:36px;height:30px;margin-top:-30px}.chat-emote.chat-emote-INFESTINY{background-position:-179px -90px;width:35px;height:30px;margin-top:-30px}.chat-emote.chat-emote-Hhhehhehe{background-position:-179px -120px;width:35px;height:24px;margin-top:-24px}.chat-emote.chat-emote-Klappa{background-position:0 -150px;width:34px;height:30px;margin-top:-30px}.chat-emote.chat-emote-SURPRISE{background-position:-34px -150px;width:33px;height:30px;margin-top:-30px}.chat-emote.chat-emote-OverRustle{background-position:-67px -150px;width:33px;height:30px;margin-top:-30px}.chat-emote.chat-emote-LeRuse{background-position:-100px -150px;width:33px;height:30px;margin-top:-30px}.chat-emote.chat-emote-FerretLOL{background-position:-133px -150px;width:33px;height:30px;margin-top:-30px}.chat-emote.chat-emote-NoTears{background-position:-166px -150px;width:31px;height:30px;margin-top:-30px}.chat-emote.chat-emote-MASTERB8{background-position:0 -180px;width:31px;height:29px;margin-top:-29px}.chat-emote.chat-emote-DestiSenpaii{background-position:-216px 0;width:31px;height:30px;margin-top:-30px}.chat-emote.chat-emote-WhoahDude{background-position:-216px -30px;width:25px;height:30px;margin-top:-30px}.chat-emote.chat-emote-WORTH{background-position:-216px -60px;width:20px;height:30px;margin-top:-30px}.chat-emote.chat-emote-UWOTM8{background-position:-216px -90px;width:26px;height:30px;margin-top:-30px}.chat-emote.chat-emote-TooSpicy{background-position:-216px -120px;width:23px;height:30px;margin-top:-30px}.chat-emote.chat-emote-Sippy{background-position:-216px -150px;width:24px;height:30px;margin-top:-30px}.chat-emote.chat-emote-OhKrappa{background-position:0 -209px;width:23px;height:30px;margin-top:-30px}.chat-emote.chat-emote-Nappa{background-position:-23px -209px;width:22px;height:30px;margin-top:-30px}.chat-emote.chat-emote-NOTMYTEMPO{background-position:-45px -209px;width:23px;height:30px;margin-top:-30px}.chat-emote.chat-emote-MotherFuckinGame{background-position:-68px -209px;width:30px;height:30px;margin-top:-30px}.chat-emote.chat-emote-MLADY{background-position:-98px -209px;width:30px;height:30px;margin-top:-30px}.chat-emote.chat-emote-Kappa{background-position:-128px -209px;width:21px;height:30px;margin-top:-30px}.chat-emote.chat-emote-Dravewin{background-position:-149px -209px;width:30px;height:30px;margin-top:-30px}.chat-emote.chat-emote-Disgustiny{background-position:-179px -209px;width:28px;height:30px;margin-top:-30px}.chat-emote.chat-emote-DatGeoff{background-position:-207px -209px;width:21px;height:30px;margin-top:-30px}.chat-emote.chat-emote-DappaKappa{background-position:-247px 0;width:26px;height:30px;margin-top:-30px}.chat-emote.chat-emote-DaFeels{background-position:0 -239px;width:30px;height:30px;margin-top:-30px}.chat-emote.chat-emote-DURRSTINY{background-position:-247px -30px;width:21px;height:30px;margin-top:-30px}.chat-emote.chat-emote-DAFUK{background-position:-30px -239px;width:30px;height:30px;margin-top:-30px}.chat-emote.chat-emote-CallChad{background-position:-247px -60px;width:24px;height:30px;margin-top:-30px}.chat-emote.chat-emote-CallCatz{background-position:-247px -90px;width:22px;height:30px;margin-top:-30px}.chat-emote.chat-emote-BasedGod{background-position:-60px -239px;width:29px;height:30px;margin-top:-30px}.chat-emote.chat-emote-nathanParty{background-position:-216px -180px;width:28px;height:28px;margin-top:-28px}.chat-emote.chat-emote-nathanFeels{background-position:-96px -90px;width:28px;height:28px;margin-top:-28px}.chat-emote.chat-emote-nathanFather{background-position:-124px -90px;width:28px;height:28px;margin-top:-28px}.chat-emote.chat-emote-nathanDubs3{background-position:-31px -180px;width:28px;height:22px;margin-top:-22px}.chat-emote.chat-emote-nathanDubs2{background-position:-59px -180px;width:28px;height:12px;margin-top:-12px}.chat-emote.chat-emote-nathanDubs1{background-position:-89px -239px;width:28px;height:28px;margin-top:-28px}.chat-emote.chat-emote-nathanDank{background-position:-117px -239px;width:28px;height:28px;margin-top:-28px}.chat-emote.chat-emote-nathanDad{background-position:-145px -239px;width:28px;height:27px;margin-top:-27px}.chat-emote.chat-emote-FIDGETLOL{background-position:-247px -120px;width:25px;height:25px;margin-top:-25px}.icon-subscriber,.icon-subscribert2,.icon-subscribert3,.icon-subscribert4{-webkit-transform:rotate(0deg);-webkit-transition:rotate .2s ease-in-out;-moz-transition:rotate .2s ease-in-out;-o-transition:rotate .2s ease-in-out;transition:rotate .2s ease-in-out}.icon-subscriber:hover,.icon-subscribert2:hover,.icon-subscribert3:hover,.icon-subscribert4:hover{-moz-animation:spin 3s infinite linear;-webkit-animation:spin 3s infinite linear}.icon-vip:hover,.icon-vip,.icon-trusted,.icon-subscribert4,.icon-subscribert3,.icon-subscribert2,.icon-subscriber,.icon-status,.icon-notable,.icon-moderator,.icon-mail,.icon-mail-send,.icon-mail-receive,.icon-mail-open-document,.icon-info,.icon-evenotable,.icon-error,.icon-contributor,.icon-compchallenge:hover,.icon-compchallenge,.icon-command,.icon-bot:hover,.icon-bot,.icon-admin:hover,.icon-admin{background-image:url('../img/icons.png');background-repeat:no-repeat}.icon-vip:hover{background-position:0 0;width:16px;height:16px}.icon-vip{background-position:-16px 0;width:16px;height:16px}.icon-trusted{background-position:0 -16px;width:16px;height:16px}.icon-subscribert4{background-position:-16px -16px;width:16px;height:16px}.icon-subscribert3{background-position:-32px 0;width:16px;height:16px}.icon-subscribert2{background-position:-32px -16px;width:16px;height:16px}.icon-subscriber{background-position:0 -32px;width:16px;height:16px}.icon-status{background-position:-16px -32px;width:16px;height:16px}.icon-notable{background-position:-32px -32px;width:16px;height:16px}.icon-moderator{background-position:-48px 0;width:16px;height:16px}.icon-mail{background-position:-48px -16px;width:16px;height:16px}.icon-mail-send{background-position:-48px -32px;width:16px;height:16px}.icon-mail-receive{background-position:0 -48px;width:16px;height:16px}.icon-mail-open-document{background-position:-16px -48px;width:16px;height:16px}.icon-info{background-position:-32px -48px;width:16px;height:16px}.icon-evenotable{background-position:-48px -48px;width:16px;height:16px}.icon-error{background-position:-64px 0;width:16px;height:16px}.icon-contributor{background-position:-64px -16px;width:16px;height:16px}.icon-compchallenge:hover{background-position:-64px -32px;width:16px;height:16px}.icon-compchallenge{background-position:-64px -48px;width:16px;height:16px}.icon-command{background-position:0 -64px;width:16px;height:16px}.icon-bot:hover{background-position:-16px -64px;width:16px;height:16px}.icon-bot{background-position:-32px -64px;width:16px;height:16px}.icon-admin:hover{background-position:-48px -64px;width:16px;height:16px}.icon-admin{background-position:-64px -64px;width:16px;height:16px}

diff --git a/config/config.php b/config/config.php
@@ -67,6 +67,8 @@ return array (
 			'nathanDubs2',
 			'nathanDubs3',
 			'nathanParty',
+			'nathanDank',
+			'nathanFeels',
 		),
 	),
 	'redis' => array(
